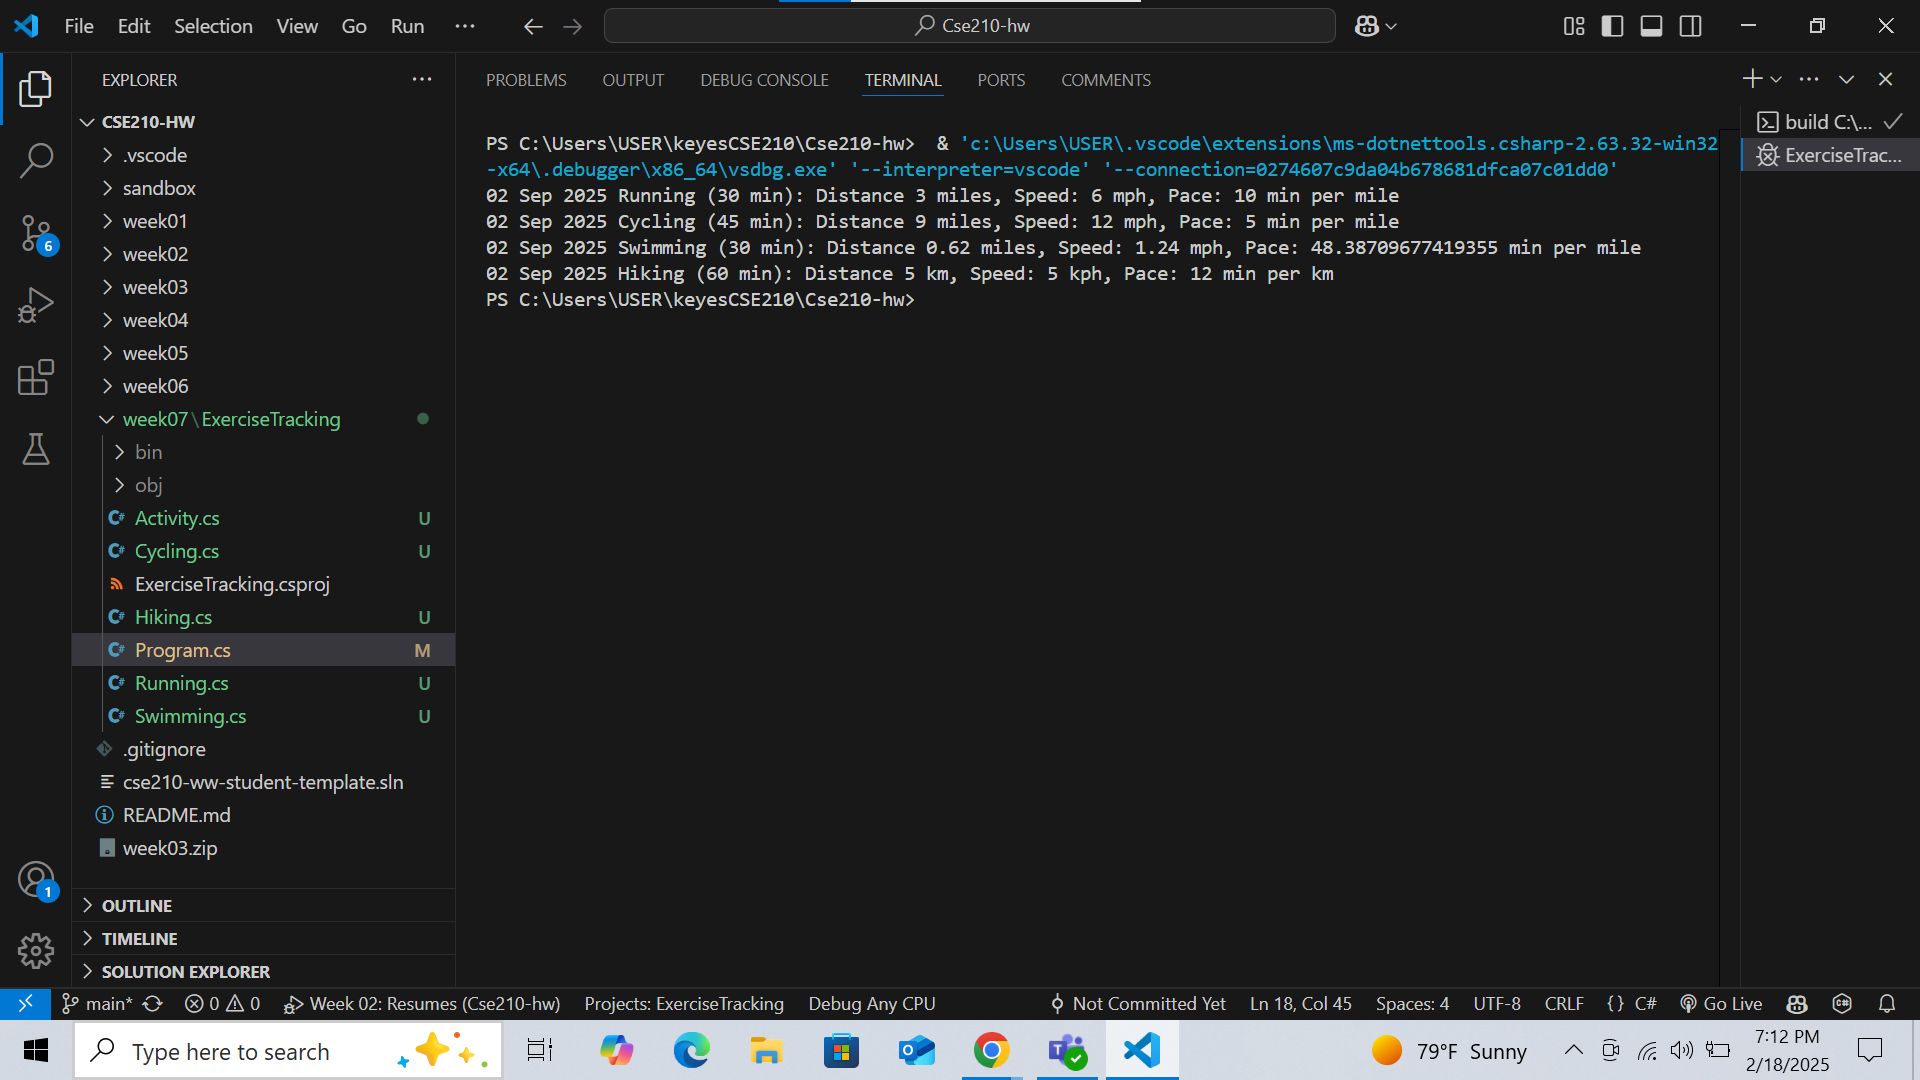
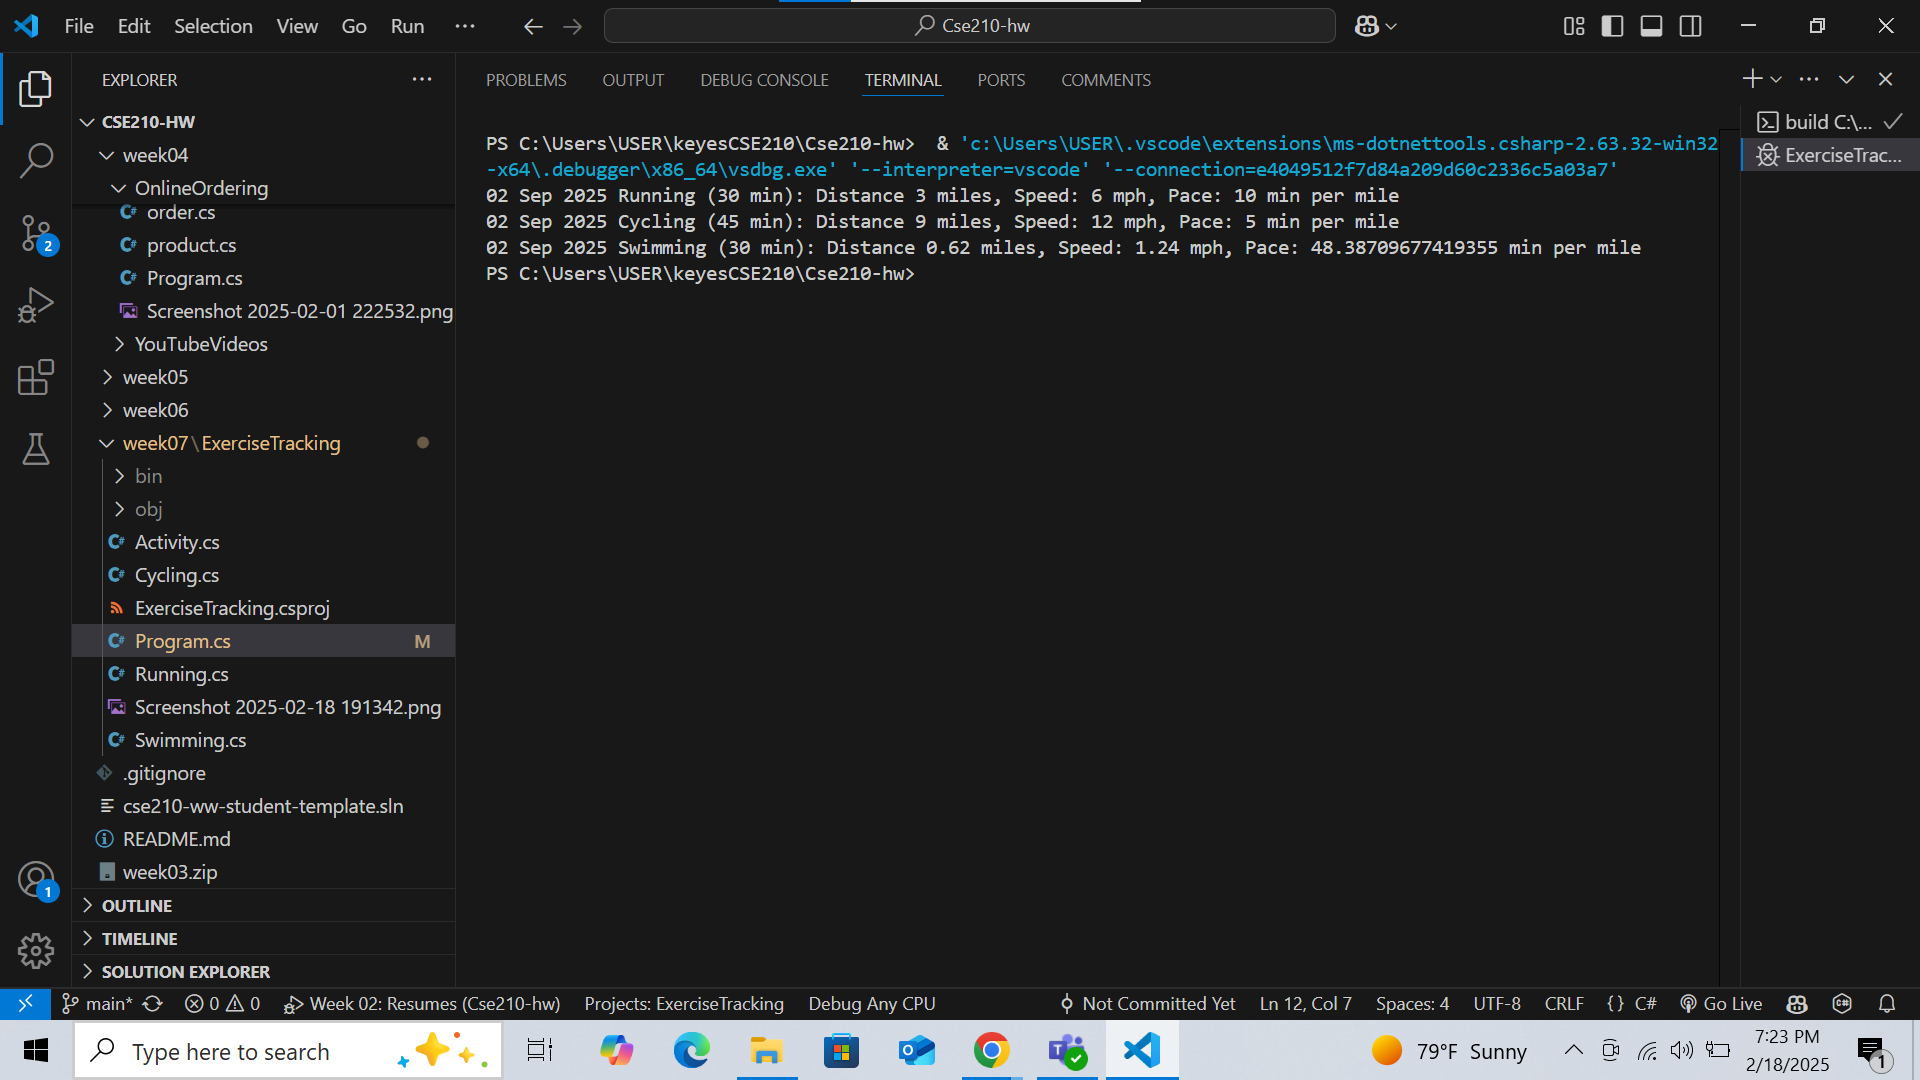
final submit

diff --git a/week07/ExerciseTracking/Program.cs b/week07/ExerciseTracking/Program.cs
@@ -9,10 +9,10 @@ class Program
         var running = new Running(new DateTime(2025, 09, 2), 30, 3.0); // 30 min running with 3 miles distance
         var cycling = new Cycling(new DateTime(2025, 09, 2), 45, 12.0); // 45 min cycling with 12 mph speed
         var swimming = new Swimming(new DateTime(2025, 09, 2), 30, 20); // 30 min swimming with 20 laps
-        var hiking = new Hiking(new DateTime(2025, 09, 2), 60, 500); // 60 min hiking with 500 meters elevation gain
+      
 
         // Put them in a list
-        List<Activity> activities = new List<Activity> { running, cycling, swimming, hiking };
+        List<Activity> activities = new List<Activity> { running, cycling, swimming, };
 
         // Display summaries
         foreach (var activity in activities)
